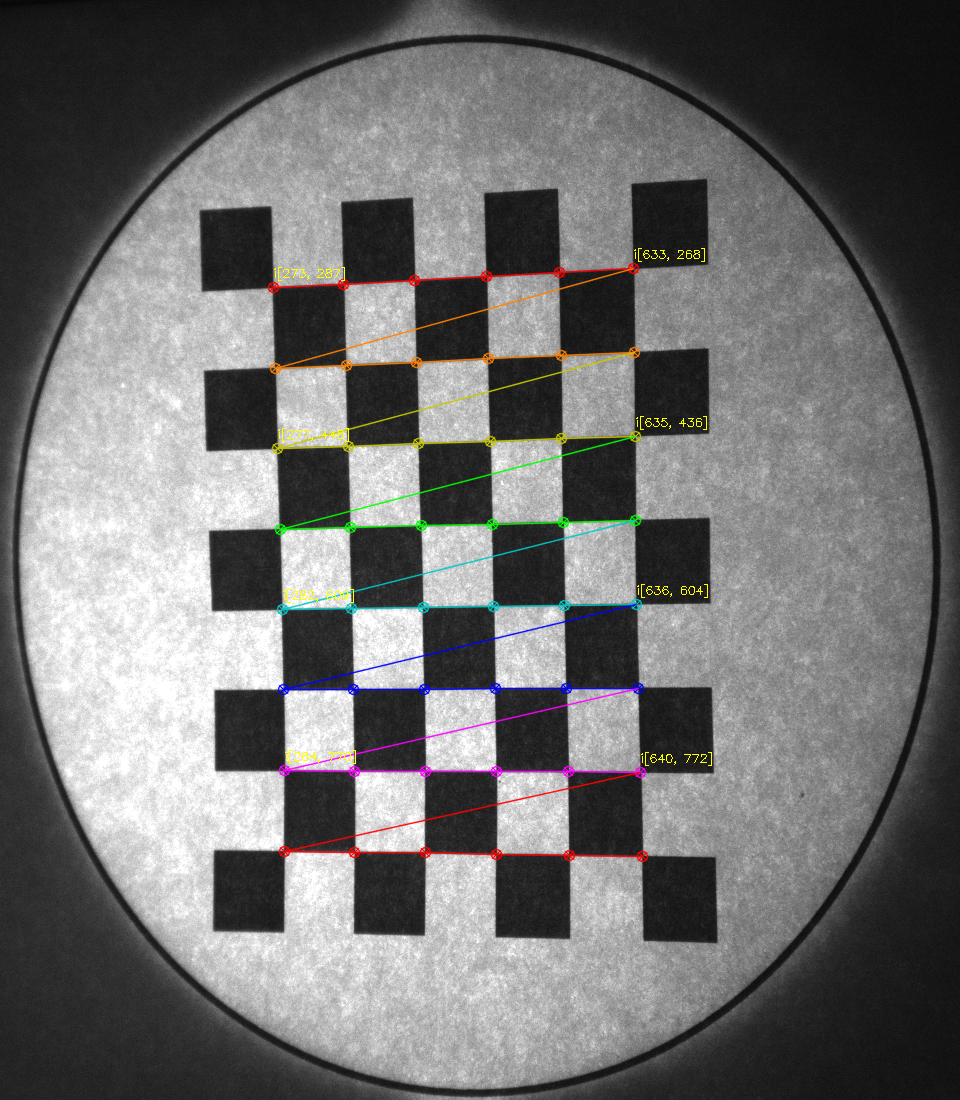
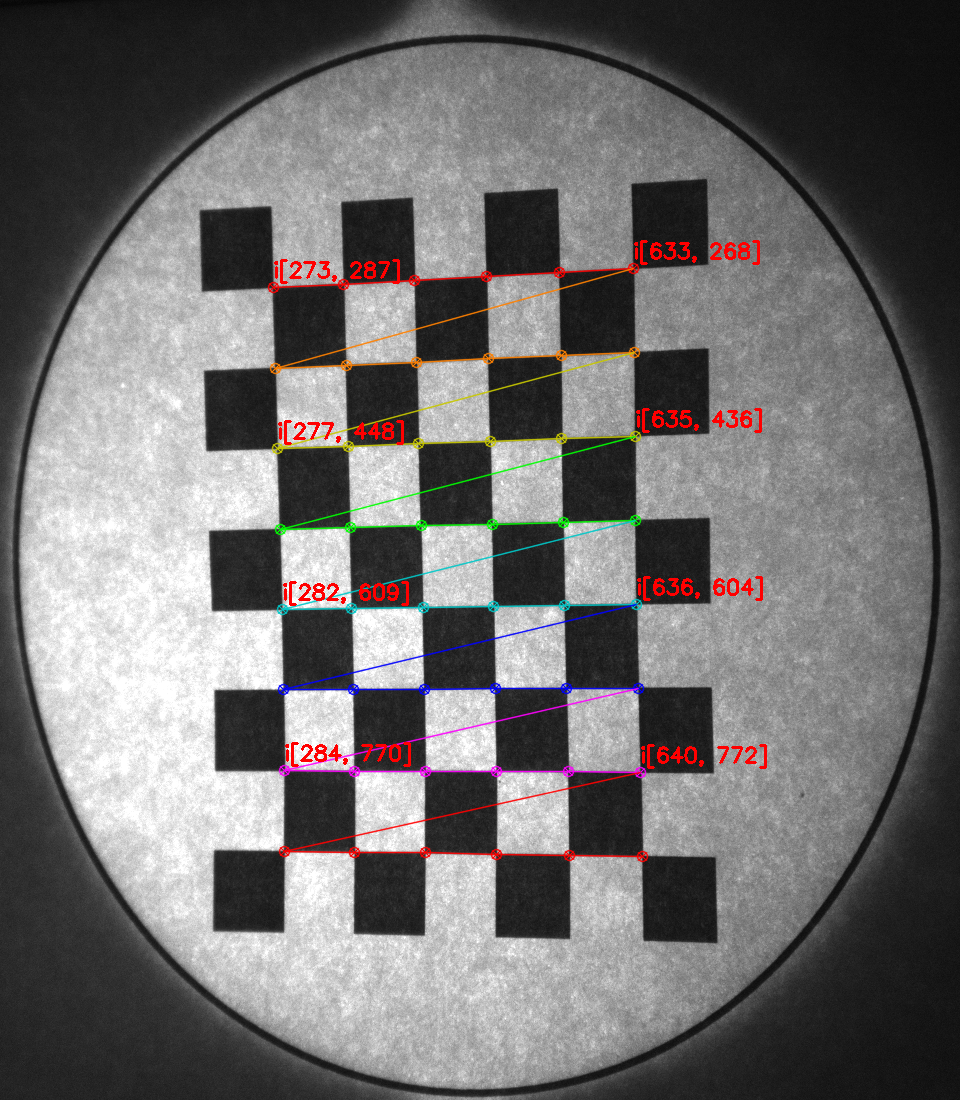
Updated calibration.

diff --git a/src/ZebrafishTrackerCalibration.cpp b/src/ZebrafishTrackerCalibration.cpp
@@ -51,22 +51,25 @@ int main(int argc, char * argv[])
                      cv::TermCriteria(CV_TERMCRIT_EPS + CV_TERMCRIT_ITER, 30, 0.1));
   }
 
-  std::vector<cv::Point2f> image_pts;
+  std::vector<cv::Point2f> image_points;
   for (size_t row=0; row<pattern_count_row; ++row)
   {
     for (size_t col=0; col<pattern_count_col; ++col)
     {
       if (((col % (pattern_count_col - 1)) == 0) && ((row % 2) == 0))
       {
-        image_pts.push_back(corners[row*pattern_count_col + col]);
+        image_points.push_back(corners[row*pattern_count_col + col]);
       }
     }
   }
 
+  float font_scale = 0.7;
+  int font_thickness = 2;
+
   cv::Mat checkerboard_image_points;
   cv::cvtColor(checkerboard,checkerboard_image_points,CV_GRAY2BGR);
   cv::drawChessboardCorners(checkerboard_image_points,patternsize,cv::Mat(corners),patternfound);
-  for (std::vector<cv::Point2f>::iterator it = image_pts.begin(); it != image_pts.end(); ++it)
+  for (std::vector<cv::Point2f>::iterator it = image_points.begin(); it != image_points.end(); ++it)
   {
     cv::Point2i image_pt = *it;
     std::stringstream image_pt_ss;
@@ -76,193 +79,234 @@ int main(int argc, char * argv[])
                 image_pt_ss.str(),
                 text_location,
                 cv::FONT_HERSHEY_SIMPLEX,
-                0.4,
-                cv::Scalar(0,255,255),
-                1);
+                font_scale,
+                cv::Scalar(0,0,255),
+                font_thickness);
   }
   cv::imwrite("images/checkerboard_image_points.png",checkerboard_image_points);
 
-  std::vector<cv::Point2f> stage_pts;
-
   // found experimentally on rig
-  stage_pts.push_back(cv::Point2f(80100,34700)); stage_pts.push_back(cv::Point2f(80500,69800));
+  std::vector<cv::Point2f> stage_points;
 
-  stage_pts.push_back(cv::Point2f(66000,34900)); stage_pts.push_back(cv::Point2f(66500,70000));
+  stage_points.push_back(cv::Point2f(80100,34700)); stage_points.push_back(cv::Point2f(80500,69800));
 
-  stage_pts.push_back(cv::Point2f(51900,35000)); stage_pts.push_back(cv::Point2f(52300,70200));
+  stage_points.push_back(cv::Point2f(66000,34900)); stage_points.push_back(cv::Point2f(66500,70000));
 
-  stage_pts.push_back(cv::Point2f(37800,35200)); stage_pts.push_back(cv::Point2f(38200,70300));
+  stage_points.push_back(cv::Point2f(51900,35000)); stage_points.push_back(cv::Point2f(52300,70200));
+
+  stage_points.push_back(cv::Point2f(37800,35200)); stage_points.push_back(cv::Point2f(38200,70300));
+
+  cv::Mat checkerboard_stage_points;
+  cv::cvtColor(checkerboard,checkerboard_stage_points,CV_GRAY2BGR);
+  cv::drawChessboardCorners(checkerboard_stage_points,patternsize,cv::Mat(corners),patternfound);
+  for (size_t i=0; i<stage_points.size(); ++i)
+  {
+    cv::Point2i stage_pt = stage_points[i];
+    cv::Point2i image_pt = image_points[i];
+    std::stringstream stage_pt_ss;
+    stage_pt_ss << "s" << stage_pt;
+    cv::Point2i text_location(image_pt.x,image_pt.y - 10);
+    cv::putText(checkerboard_stage_points,
+                stage_pt_ss.str(),
+                text_location,
+                cv::FONT_HERSHEY_SIMPLEX,
+                font_scale,
+                cv::Scalar(0,0,255),
+                font_thickness);
+  }
+  cv::imwrite("images/checkerboard_stage_points.png",checkerboard_stage_points);
 
   cv::FileStorage fs("calibration/calibration.yml", cv::FileStorage::WRITE);
-  std::vector<cv::Point2i> image_pts_i;
-  cv::Mat(image_pts).copyTo(image_pts_i);
-  std::vector<cv::Point2i> stage_pts_i;
-  cv::Mat(stage_pts).copyTo(stage_pts_i);
-  fs << "image_pts" << image_pts_i;
-  fs << "stage_pts" << stage_pts_i;
+  std::vector<cv::Point2i> image_points_i;
+  cv::Mat(image_points).copyTo(image_points_i);
+  std::vector<cv::Point2i> stage_points_i;
+  cv::Mat(stage_points).copyTo(stage_points_i);
+  cv::Mat homography_image_to_stage = cv::findHomography(image_points,stage_points,CV_RANSAC);
+  cv::Mat homography_stage_to_image = cv::findHomography(stage_points,image_points,CV_RANSAC);
+  std::vector<cv::Point2f> image_points_calculated;
+  cv::perspectiveTransform(stage_points,image_points_calculated,homography_stage_to_image);
+  std::vector<cv::Point2i> image_points_calculated_i;
+  cv::Mat(image_points_calculated).copyTo(image_points_calculated_i);
+  std::vector<cv::Point2f> stage_points_calculated;
+  cv::perspectiveTransform(image_points,stage_points_calculated,homography_image_to_stage);
+  std::vector<cv::Point2i> stage_points_calculated_i;
+  cv::Mat(stage_points_calculated).copyTo(stage_points_calculated_i);
 
-  cv::Mat homography_image_to_stage = cv::findHomography(image_pts,stage_pts,CV_LMEDS);
+
+  fs << "image_points" << image_points_i;
+  fs << "image_points_calculated" << image_points_calculated_i;
+  fs << "stage_points" << stage_points_i;
+  fs << "stage_points_calculated" << stage_points_calculated_i;
   fs << "homography_image_to_stage" << homography_image_to_stage;
-
-  cv::Mat homography_stage_to_image = cv::findHomography(stage_pts,image_pts,CV_LMEDS);
   fs << "homography_stage_to_image" << homography_stage_to_image;
 
   fs.release();
 
-  cv::Mat background = cv::imread("images/background.png",CV_LOAD_IMAGE_GRAYSCALE);
-  if(!background.data)
-  {
-    std::cout <<  "Could not open or find the background image!" << std::endl;
-    return -1;
-  }
   cv::Mat calibrated;
-  cv::cvtColor(background,calibrated,CV_GRAY2BGR);
+  cv::cvtColor(checkerboard,calibrated,CV_GRAY2BGR);
 
-  std::vector<cv::Point2f> stage_pts_in;
-  std::vector<cv::Point2f> image_pts_out;
+  std::vector<cv::Point2f> stage_points_in;
+  std::vector<cv::Point2f> image_points_out;
 
-  stage_pts_in.push_back(cv::Point2f(0,0));
-  stage_pts_in.push_back(cv::Point2f(100000,0));
-  stage_pts_in.push_back(cv::Point2f(0,100000));
-  stage_pts_in.push_back(cv::Point2f(100000,100000));
+  cv::Point2f stage_offset(20000,20000);
+  cv::Point2f stage_limit(100000,100000);
 
-  cv::perspectiveTransform(stage_pts_in,image_pts_out,homography_stage_to_image);
-  std::vector<cv::Point2i> stage_pts_in_i;
-  cv::Mat(stage_pts_in).copyTo(stage_pts_in_i);
-  std::vector<cv::Point2i> image_pts_out_i;
-  cv::Mat(image_pts_out).copyTo(image_pts_out_i);
+  stage_points_in.push_back(stage_offset);
+  stage_points_in.push_back(cv::Point2f((stage_limit.x - stage_offset.x),stage_offset.y));
+  stage_points_in.push_back(cv::Point2f(stage_offset.x,(stage_limit.y - stage_offset.y)));
+  stage_points_in.push_back(cv::Point2f((stage_limit.x - stage_offset.x),(stage_limit.y - stage_offset.y)));
+
+  cv::perspectiveTransform(stage_points_in,image_points_out,homography_stage_to_image);
+  std::vector<cv::Point2i> stage_points_in_i;
+  cv::Mat(stage_points_in).copyTo(stage_points_in_i);
+  std::vector<cv::Point2i> image_points_out_i;
+  cv::Mat(image_points_out).copyTo(image_points_out_i);
 
   cv::line(calibrated,
-           image_pts_out[0],
-           image_pts_out[1],
+           image_points_out[0],
+           image_points_out[1],
            cv::Scalar(255,0,0),
            4);
   cv::line(calibrated,
-           image_pts_out[0],
-           image_pts_out[2],
+           image_points_out[0],
+           image_points_out[2],
            cv::Scalar(0,255,0),
            4);
   cv::line(calibrated,
-           image_pts_out[1],
-           image_pts_out[3],
+           image_points_out[1],
+           image_points_out[3],
            cv::Scalar(255,255,0),
            4);
   cv::line(calibrated,
-           image_pts_out[2],
-           image_pts_out[3],
+           image_points_out[2],
+           image_points_out[3],
            cv::Scalar(255,255,0),
            4);
+
   std::stringstream image_out_ss_0;
-  image_out_ss_0 << "s" << stage_pts_in_i[0];
-  cv::Point2f image_out_0(image_pts_out[0].x + 20,image_pts_out[0].y - 20);
+  image_out_ss_0 << "s" << stage_points_in_i[0];
+  cv::Point2f image_out_0(image_points_out[0].x + 20,image_points_out[0].y - 20);
   cv::putText(calibrated,
               image_out_ss_0.str(),
               image_out_0,
               cv::FONT_HERSHEY_SIMPLEX,
-              0.75,
+              font_scale,
               cv::Scalar(0,0,255),
-              2);
+              font_thickness);
 
   std::stringstream image_out_ss_1;
-  image_out_ss_1 << "s" << stage_pts_in_i[1];
-  cv::Point2f image_out_1(image_pts_out[1].x + 20,image_pts_out[1].y + 30);
+  image_out_ss_1 << "s" << stage_points_in_i[1];
+  cv::Point2f image_out_1(image_points_out[1].x + 20,image_points_out[1].y + 30);
   cv::putText(calibrated,
               image_out_ss_1.str(),
               image_out_1,
               cv::FONT_HERSHEY_SIMPLEX,
-              0.75,
+              font_scale,
               cv::Scalar(0,0,255),
-              2);
+              font_thickness);
+
+  std::stringstream image_out_ss_2;
+  image_out_ss_2 << "s" << stage_points_in_i[2];
+  cv::Point2f image_out_2(image_points_out[2].x,image_points_out[2].y + 20);
+  cv::putText(calibrated,
+              image_out_ss_2.str(),
+              image_out_2,
+              cv::FONT_HERSHEY_SIMPLEX,
+              font_scale,
+              cv::Scalar(0,0,255),
+              font_thickness);
 
   std::stringstream image_out_ss_3;
-  image_out_ss_3 << "s" << stage_pts_in_i[3];
-  cv::Point2f image_out_3(image_pts_out[3].x,image_pts_out[3].y - 20);
+  image_out_ss_3 << "s" << stage_points_in_i[3];
+  cv::Point2f image_out_3(image_points_out[3].x,image_points_out[3].y + 20);
   cv::putText(calibrated,
               image_out_ss_3.str(),
               image_out_3,
               cv::FONT_HERSHEY_SIMPLEX,
-              0.75,
+              font_scale,
               cv::Scalar(0,0,255),
-              2);
+              font_thickness);
 
-  std::vector<cv::Point2f> image_pts_in;
-  std::vector<cv::Point2f> stage_pts_out;
+  // std::vector<cv::Point2f> image_points_in;
+  // std::vector<cv::Point2f> stage_points_out;
 
-  image_pts_in.push_back(cv::Point2f(700,250));
-  image_pts_in.push_back(cv::Point2f(1250,250));
-  image_pts_in.push_back(cv::Point2f(700,950));
-  image_pts_in.push_back(cv::Point2f(1250,950));
+  // cv::Point2f image_offset(175,250);
 
-  cv::perspectiveTransform(image_pts_in,stage_pts_out,homography_image_to_stage);
-  std::vector<cv::Point2i> image_pts_in_i;
-  cv::Mat(image_pts_in).copyTo(image_pts_in_i);
-  std::vector<cv::Point2i> stage_pts_out_i;
-  cv::Mat(stage_pts_out).copyTo(stage_pts_out_i);
+  // image_points_in.push_back(image_offset);
+  // image_points_in.push_back(cv::Point2f((background.size().width - image_offset.x),image_offset.y));
+  // image_points_in.push_back(cv::Point2f(image_offset.x,(background.size().height - image_offset.y)));
+  // image_points_in.push_back(cv::Point2f((background.size().width - image_offset.x),(background.size().height - image_offset.y)));
 
-  cv::line(calibrated,
-           image_pts_in[0],
-           image_pts_in[1],
-           cv::Scalar(255,0,0),
-           4);
-  cv::line(calibrated,
-           image_pts_in[0],
-           image_pts_in[2],
-           cv::Scalar(0,255,0),
-           4);
-  cv::line(calibrated,
-           image_pts_in[1],
-           image_pts_in[3],
-           cv::Scalar(255,255,0),
-           4);
-  cv::line(calibrated,
-           image_pts_in[2],
-           image_pts_in[3],
-           cv::Scalar(255,255,0),
-           4);
+  // cv::perspectiveTransform(image_points_in,stage_points_out,homography_image_to_stage);
+  // std::vector<cv::Point2i> image_points_in_i;
+  // cv::Mat(image_points_in).copyTo(image_points_in_i);
+  // std::vector<cv::Point2i> stage_points_out_i;
+  // cv::Mat(stage_points_out).copyTo(stage_points_out_i);
 
-  std::stringstream image_in_ss_0;
-  image_in_ss_0 << "i" << image_pts_in_i[0] << " -> " << "s" << stage_pts_out_i[0];
-  cv::Point2f image_in_0(image_pts_in_i[0].x,image_pts_in_i[0].y - 20);
-  cv::putText(calibrated,
-              image_in_ss_0.str(),
-              image_in_0,
-              cv::FONT_HERSHEY_SIMPLEX,
-              0.75,
-              cv::Scalar(0,0,255),
-              2);
+  // cv::line(calibrated,
+  //          image_points_in[0],
+  //          image_points_in[1],
+  //          cv::Scalar(255,0,0),
+  //          4);
+  // cv::line(calibrated,
+  //          image_points_in[0],
+  //          image_points_in[2],
+  //          cv::Scalar(0,255,0),
+  //          4);
+  // cv::line(calibrated,
+  //          image_points_in[1],
+  //          image_points_in[3],
+  //          cv::Scalar(255,255,0),
+  //          4);
+  // cv::line(calibrated,
+  //          image_points_in[2],
+  //          image_points_in[3],
+  //          cv::Scalar(255,255,0),
+  //          4);
 
-  std::stringstream image_in_ss_1;
-  image_in_ss_1 << "i" << image_pts_in_i[1] << " -> " << "s" << stage_pts_out_i[1];
-  cv::Point2f image_in_1(image_pts_in_i[1].x,image_pts_in_i[1].y - 20);
-  cv::putText(calibrated,
-              image_in_ss_1.str(),
-              image_in_1,
-              cv::FONT_HERSHEY_SIMPLEX,
-              0.75,
-              cv::Scalar(0,0,255),
-              2);
+  // std::stringstream image_in_ss_0;
+  // image_in_ss_0 << "i" << image_points_in_i[0] << " -> " << "s" << stage_points_out_i[0];
+  // cv::Point2f image_in_0(image_points_in_i[0].x,image_points_in_i[0].y - 20);
+  // cv::putText(calibrated,
+  //             image_in_ss_0.str(),
+  //             image_in_0,
+  //             cv::FONT_HERSHEY_SIMPLEX,
+  //             font_scale,
+  //             cv::Scalar(0,0,255),
+  //             font_thickness);
 
-  std::stringstream image_in_ss_2;
-  image_in_ss_2 << "i" << image_pts_in_i[2] << " -> " << "s" << stage_pts_out_i[2];
-  cv::Point2f image_in_2(image_pts_in_i[2].x,image_pts_in_i[2].y + 30);
-  cv::putText(calibrated,
-              image_in_ss_2.str(),
-              image_in_2,
-              cv::FONT_HERSHEY_SIMPLEX,
-              0.75,
-              cv::Scalar(0,0,255),
-              2);
+  // std::stringstream image_in_ss_1;
+  // image_in_ss_1 << "i" << image_points_in_i[1] << " -> " << "s" << stage_points_out_i[1];
+  // cv::Point2f image_in_1(image_points_in_i[1].x - 120,image_points_in_i[1].y - 20);
+  // cv::putText(calibrated,
+  //             image_in_ss_1.str(),
+  //             image_in_1,
+  //             cv::FONT_HERSHEY_SIMPLEX,
+  //             font_scale,
+  //             cv::Scalar(0,0,255),
+  //             font_thickness);
 
-  std::stringstream image_in_ss_3;
-  image_in_ss_3 << "i" << image_pts_in_i[3] << " -> " << "s" << stage_pts_out_i[3];
-  cv::Point2f image_in_3(image_pts_in_i[3].x,image_pts_in_i[3].y + 30);
-  cv::putText(calibrated,
-              image_in_ss_3.str(),
-              image_in_3,
-              cv::FONT_HERSHEY_SIMPLEX,
-              0.75,
-              cv::Scalar(0,0,255),
-              2);
+  // std::stringstream image_in_ss_2;
+  // image_in_ss_2 << "i" << image_points_in_i[2] << " -> " << "s" << stage_points_out_i[2];
+  // cv::Point2f image_in_2(image_points_in_i[2].x,image_points_in_i[2].y + 30);
+  // cv::putText(calibrated,
+  //             image_in_ss_2.str(),
+  //             image_in_2,
+  //             cv::FONT_HERSHEY_SIMPLEX,
+  //             font_scale,
+  //             cv::Scalar(0,0,255),
+  //             font_thickness);
+
+  // std::stringstream image_in_ss_3;
+  // image_in_ss_3 << "i" << image_points_in_i[3] << " -> " << "s" << stage_points_out_i[3];
+  // cv::Point2f image_in_3(image_points_in_i[3].x - 120,image_points_in_i[3].y + 30);
+  // cv::putText(calibrated,
+  //             image_in_ss_3.str(),
+  //             image_in_3,
+  //             cv::FONT_HERSHEY_SIMPLEX,
+  //             font_scale,
+  //             cv::Scalar(0,0,255),
+  //             font_thickness);
 
   cv::imwrite("images/calibrated.png",calibrated);
 
